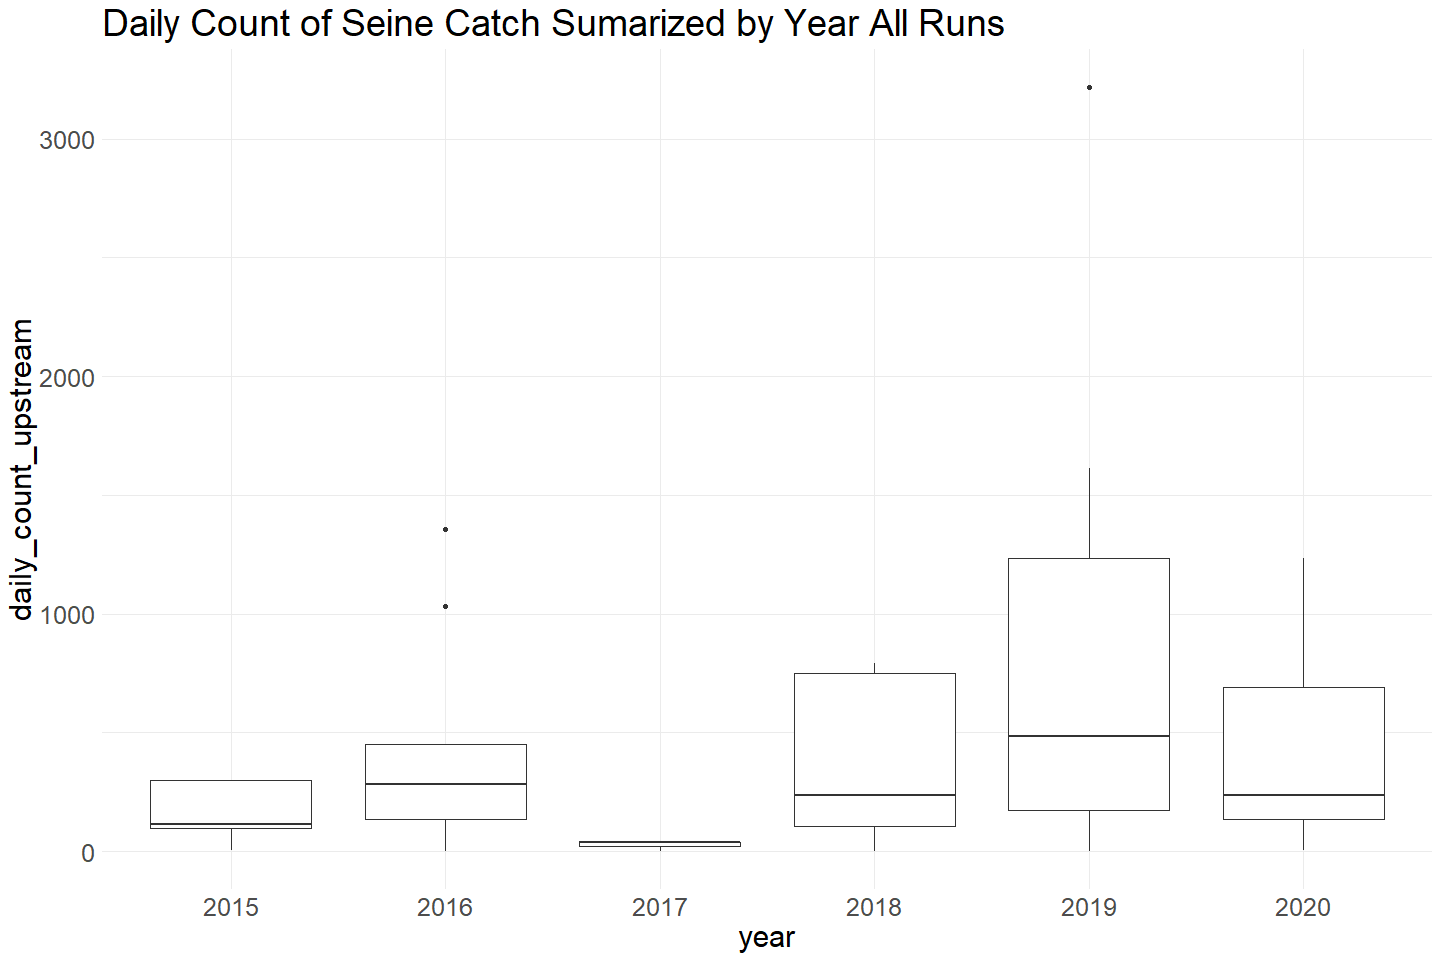
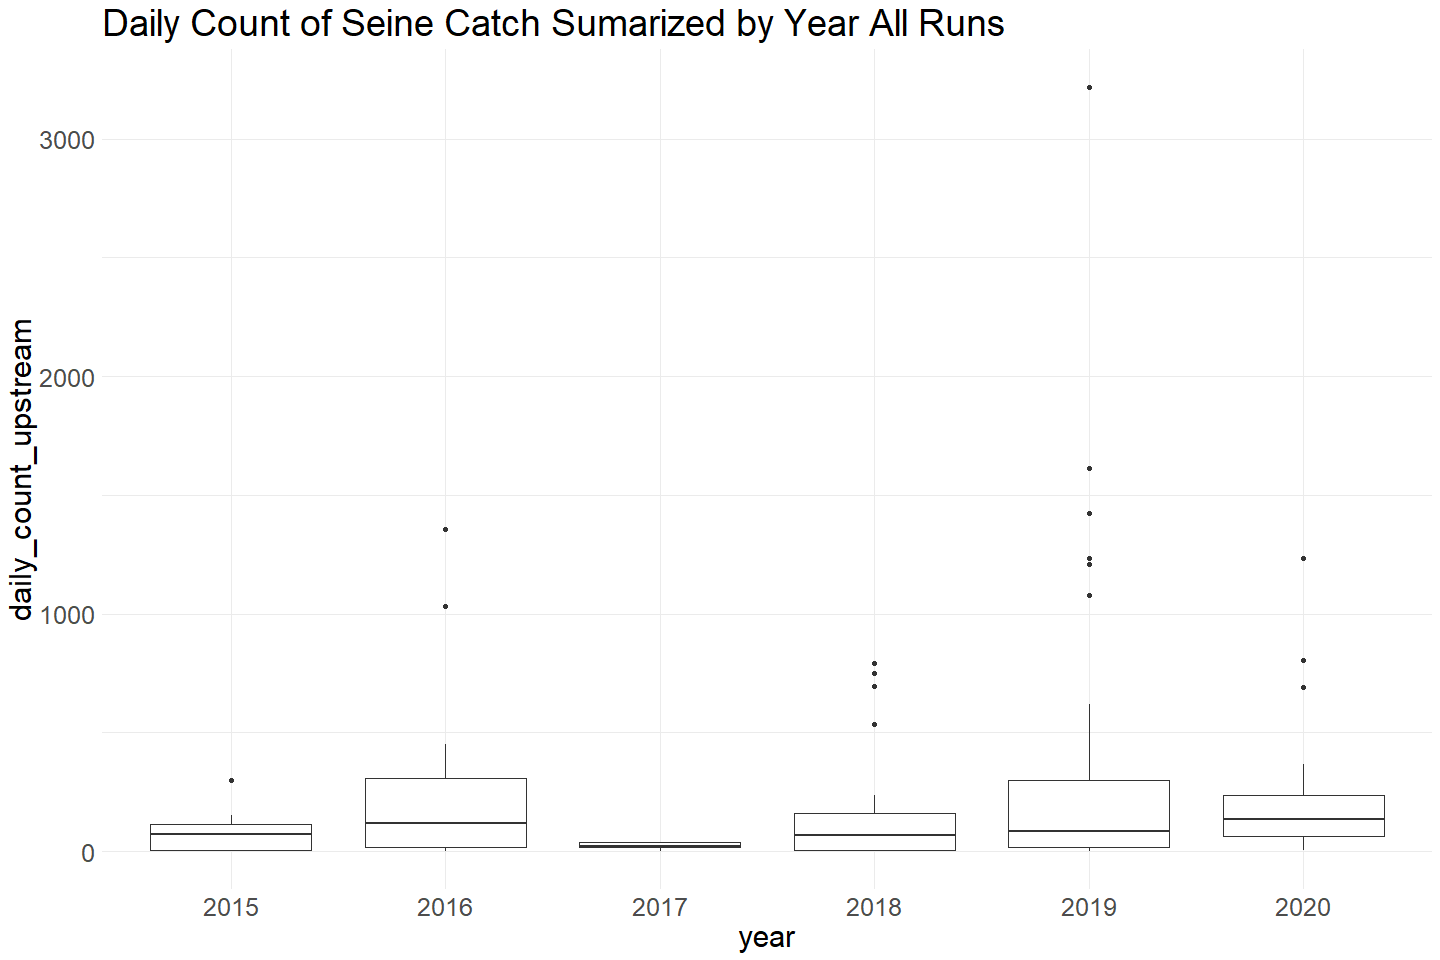
Fixes lat long and substrate for most recent seine data

diff --git a/scripts/juvenile-monitoring-seine-and-snorkel-data/feather-river/feather_seine_2015-2021.md b/scripts/juvenile-monitoring-seine-and-snorkel-data/feather-river/feather_seine_2015-2021.md
@@ -54,7 +54,16 @@ Read in data from google cloud, glimpse raw data:
 
 ``` r
 # read in data to clean 
-raw_seine_2015 <- read_xlsx("raw_seine_2015-2021.xlsx") %>% glimpse()
+raw_seine_2015 <- read_xlsx("raw_seine_2015-2021.xlsx", col_types = c("numeric", "text", "numeric", "numeric", "numeric",
+                                                                      "numeric", "numeric", "logical", "text", "text", 
+                                                                      "numeric", "date", "date", "numeric", "numeric", "numeric",
+                                                                      "text", "numeric", "numeric", "numeric", "numeric",
+                                                                      "numeric", "numeric", "numeric", "numeric", "numeric",
+                                                                      "numeric", "numeric", "numeric", "numeric", "numeric",
+                                                                      "numeric", "numeric", "numeric", "numeric",
+                                                                      "numeric","text", "text", "text", "text", "text", "text",
+                                                                      "text", "numeric", "numeric", "numeric", "numeric", "text",
+                                                                      "text", "numeric", "numeric", "text")) %>% glimpse()
 ```
 
     ## Rows: 19,403
@@ -63,12 +72,12 @@ raw_seine_2015 <- read_xlsx("raw_seine_2015-2021.xlsx") %>% glimpse()
     ## $ Species                  <chr> "CHNF", "CHNF", "CHNF", "CHNF", "CHNF", "CHNF~
     ## $ Count                    <dbl> 1, 1, 1, 1, 1, 1, 1, 1, 1, 1, 1, 1, 1, 1, 1, ~
     ## $ `Fork Length`            <dbl> 47, 58, 62, 50, 65, 60, 59, 60, 67, 59, 54, 8~
-    ## $ `Total Length`           <lgl> NA, NA, NA, NA, NA, NA, NA, NA, NA, NA, NA, N~
+    ## $ `Total Length`           <dbl> NA, NA, NA, NA, NA, NA, NA, NA, NA, NA, NA, N~
     ## $ `Salmonid Life Stage`    <dbl> 7, 7, 7, 7, 7, 7, 7, 7, 7, 7, 7, 7, 7, 7, 7, ~
     ## $ id                       <dbl> 6225, 6226, 6227, 6228, 6229, 6230, 6231, 623~
     ## $ Dead                     <lgl> FALSE, FALSE, FALSE, FALSE, FALSE, FALSE, FAL~
     ## $ `Weight (g)`             <chr> "1.1", "2", "2.3", "1.3", "2.9", "2.4", "2", ~
-    ## $ `Catch TBL_Comments`     <lgl> NA, NA, NA, NA, NA, NA, NA, NA, NA, NA, NA, N~
+    ## $ `Catch TBL_Comments`     <chr> NA, NA, NA, NA, NA, NA, NA, NA, NA, NA, NA, N~
     ## $ `Site ID`                <dbl> 59, 59, 59, 59, 59, 59, 59, 59, 59, 59, 59, 5~
     ## $ Date                     <dttm> 2015-05-19, 2015-05-19, 2015-05-19, 2015-05-~
     ## $ Time                     <dttm> 1899-12-31 10:30:00, 1899-12-31 10:30:00, 18~
@@ -76,35 +85,35 @@ raw_seine_2015 <- read_xlsx("raw_seine_2015-2021.xlsx") %>% glimpse()
     ## $ ConditionCode            <dbl> 4, 4, 4, 4, 4, 4, 4, 4, 4, 4, 4, 4, 4, 4, 4, ~
     ## $ Temperature              <dbl> NA, NA, NA, NA, NA, NA, NA, NA, NA, NA, NA, N~
     ## $ WeatherCode              <chr> "CLR", "CLR", "CLR", "CLR", "CLR", "CLR", "CL~
-    ## $ Flow                     <lgl> NA, NA, NA, NA, NA, NA, NA, NA, NA, NA, NA, N~
-    ## $ `EFBS Length`            <lgl> NA, NA, NA, NA, NA, NA, NA, NA, NA, NA, NA, N~
-    ## $ `EFBS Width`             <lgl> NA, NA, NA, NA, NA, NA, NA, NA, NA, NA, NA, N~
-    ## $ `EFBS Depth (Top)`       <lgl> NA, NA, NA, NA, NA, NA, NA, NA, NA, NA, NA, N~
-    ## $ `EFBS Depth (Bottom)`    <lgl> NA, NA, NA, NA, NA, NA, NA, NA, NA, NA, NA, N~
-    ## $ `EFBS Velocity (Top)`    <lgl> NA, NA, NA, NA, NA, NA, NA, NA, NA, NA, NA, N~
-    ## $ `EFBS Velocity (Bottom)` <lgl> NA, NA, NA, NA, NA, NA, NA, NA, NA, NA, NA, N~
+    ## $ Flow                     <dbl> NA, NA, NA, NA, NA, NA, NA, NA, NA, NA, NA, N~
+    ## $ `EFBS Length`            <dbl> NA, NA, NA, NA, NA, NA, NA, NA, NA, NA, NA, N~
+    ## $ `EFBS Width`             <dbl> NA, NA, NA, NA, NA, NA, NA, NA, NA, NA, NA, N~
+    ## $ `EFBS Depth (Top)`       <dbl> NA, NA, NA, NA, NA, NA, NA, NA, NA, NA, NA, N~
+    ## $ `EFBS Depth (Bottom)`    <dbl> NA, NA, NA, NA, NA, NA, NA, NA, NA, NA, NA, N~
+    ## $ `EFBS Velocity (Top)`    <dbl> NA, NA, NA, NA, NA, NA, NA, NA, NA, NA, NA, N~
+    ## $ `EFBS Velocity (Bottom)` <dbl> NA, NA, NA, NA, NA, NA, NA, NA, NA, NA, NA, N~
     ## $ `BS Start Length`        <dbl> NA, NA, NA, NA, NA, NA, NA, NA, NA, NA, NA, N~
-    ## $ `BS Close Width`         <lgl> NA, NA, NA, NA, NA, NA, NA, NA, NA, NA, NA, N~
+    ## $ `BS Close Width`         <dbl> NA, NA, NA, NA, NA, NA, NA, NA, NA, NA, NA, N~
     ## $ `BS Distance Out`        <dbl> NA, NA, NA, NA, NA, NA, NA, NA, NA, NA, NA, N~
     ## $ `BS Depth (1/2)`         <dbl> NA, NA, NA, NA, NA, NA, NA, NA, NA, NA, NA, N~
-    ## $ `BS Depth (Full)`        <lgl> NA, NA, NA, NA, NA, NA, NA, NA, NA, NA, NA, N~
-    ## $ `BS Velocity (1/2)`      <lgl> NA, NA, NA, NA, NA, NA, NA, NA, NA, NA, NA, N~
-    ## $ `BS Velocity (Full)`     <lgl> NA, NA, NA, NA, NA, NA, NA, NA, NA, NA, NA, N~
+    ## $ `BS Depth (Full)`        <dbl> NA, NA, NA, NA, NA, NA, NA, NA, NA, NA, NA, N~
+    ## $ `BS Velocity (1/2)`      <dbl> NA, NA, NA, NA, NA, NA, NA, NA, NA, NA, NA, N~
+    ## $ `BS Velocity (Full)`     <dbl> NA, NA, NA, NA, NA, NA, NA, NA, NA, NA, NA, N~
     ## $ `Substrate 1`            <dbl> 1, 1, 1, 1, 1, 1, 1, 1, 1, 1, 1, 1, 1, 1, 1, ~
     ## $ `Substrate 2`            <dbl> 2, 2, 2, 2, 2, 2, 2, 2, 2, 2, 2, 2, 2, 2, 2, ~
     ## $ `Substrate 3`            <dbl> 3, 3, 3, 3, 3, 3, 3, 3, 3, 3, 3, 3, 3, 3, 3, ~
-    ## $ `Substrate 4`            <lgl> NA, NA, NA, NA, NA, NA, NA, NA, NA, NA, NA, N~
-    ## $ `Substrate 5`            <lgl> NA, NA, NA, NA, NA, NA, NA, NA, NA, NA, NA, N~
+    ## $ `Substrate 4`            <dbl> NA, NA, NA, NA, NA, NA, NA, NA, NA, NA, NA, N~
+    ## $ `Substrate 5`            <dbl> NA, NA, NA, NA, NA, NA, NA, NA, NA, NA, NA, N~
     ## $ `Cover 1`                <chr> "B", "B", "B", "B", "B", "B", "B", "B", "B", ~
     ## $ `Cover 2`                <chr> "D", "D", "D", "D", "D", "D", "D", "D", "D", ~
     ## $ `Cover 3`                <chr> "C", "C", "C", "C", "C", "C", "C", "C", "C", ~
     ## $ `Cover 4`                <chr> "E", "E", "E", "E", "E", "E", "E", "E", "E", ~
     ## $ `Cover 5`                <chr> "F", "F", "F", "F", "F", "F", "F", "F", "F", ~
-    ## $ `Cover 6`                <lgl> NA, NA, NA, NA, NA, NA, NA, NA, NA, NA, NA, N~
+    ## $ `Cover 6`                <chr> NA, NA, NA, NA, NA, NA, NA, NA, NA, NA, NA, N~
     ## $ RPGRu                    <chr> "GRRU", "GRRU", "GRRU", "GRRU", "GRRU", "GRRU~
-    ## $ GearHeight               <lgl> NA, NA, NA, NA, NA, NA, NA, NA, NA, NA, NA, N~
-    ## $ `Dissolved Oxygen`       <lgl> NA, NA, NA, NA, NA, NA, NA, NA, NA, NA, NA, N~
-    ## $ EC                       <lgl> NA, NA, NA, NA, NA, NA, NA, NA, NA, NA, NA, N~
+    ## $ GearHeight               <dbl> NA, NA, NA, NA, NA, NA, NA, NA, NA, NA, NA, N~
+    ## $ `Dissolved Oxygen`       <dbl> NA, NA, NA, NA, NA, NA, NA, NA, NA, NA, NA, N~
+    ## $ EC                       <dbl> NA, NA, NA, NA, NA, NA, NA, NA, NA, NA, NA, N~
     ## $ OBJECTID                 <dbl> 59, 59, 59, 59, 59, 59, 59, 59, 59, 59, 59, 5~
     ## $ site_name                <chr> "Hatchery Ditch", "Hatchery Ditch", "Hatchery~
     ## $ gear_type                <chr> "SEIN", "SEIN", "SEIN", "SEIN", "SEIN", "SEIN~
@@ -170,15 +179,15 @@ cleaner_seine_data <- raw_seine_2015 %>%
     ## $ condition            <chr> "4", "4", "4", "4", "4", "4", "4", "4", "4", "4",~
     ## $ temperature          <dbl> NA, NA, NA, NA, NA, NA, NA, NA, NA, NA, NA, NA, N~
     ## $ weather              <chr> "CLR", "CLR", "CLR", "CLR", "CLR", "CLR", "CLR", ~
-    ## $ flow                 <lgl> NA, NA, NA, NA, NA, NA, NA, NA, NA, NA, NA, NA, N~
-    ## $ efbs_length          <lgl> NA, NA, NA, NA, NA, NA, NA, NA, NA, NA, NA, NA, N~
-    ## $ efbs_width           <lgl> NA, NA, NA, NA, NA, NA, NA, NA, NA, NA, NA, NA, N~
-    ## $ efbs_depth_top       <lgl> NA, NA, NA, NA, NA, NA, NA, NA, NA, NA, NA, NA, N~
-    ## $ efbs_depth_bottom    <lgl> NA, NA, NA, NA, NA, NA, NA, NA, NA, NA, NA, NA, N~
-    ## $ efbs_velocity_top    <lgl> NA, NA, NA, NA, NA, NA, NA, NA, NA, NA, NA, NA, N~
-    ## $ efbs_velocity_bottom <lgl> NA, NA, NA, NA, NA, NA, NA, NA, NA, NA, NA, NA, N~
+    ## $ flow                 <dbl> NA, NA, NA, NA, NA, NA, NA, NA, NA, NA, NA, NA, N~
+    ## $ efbs_length          <dbl> NA, NA, NA, NA, NA, NA, NA, NA, NA, NA, NA, NA, N~
+    ## $ efbs_width           <dbl> NA, NA, NA, NA, NA, NA, NA, NA, NA, NA, NA, NA, N~
+    ## $ efbs_depth_top       <dbl> NA, NA, NA, NA, NA, NA, NA, NA, NA, NA, NA, NA, N~
+    ## $ efbs_depth_bottom    <dbl> NA, NA, NA, NA, NA, NA, NA, NA, NA, NA, NA, NA, N~
+    ## $ efbs_velocity_top    <dbl> NA, NA, NA, NA, NA, NA, NA, NA, NA, NA, NA, NA, N~
+    ## $ efbs_velocity_bottom <dbl> NA, NA, NA, NA, NA, NA, NA, NA, NA, NA, NA, NA, N~
     ## $ bs_start_length      <dbl> NA, NA, NA, NA, NA, NA, NA, NA, NA, NA, NA, NA, N~
-    ## $ bs_close_width       <lgl> NA, NA, NA, NA, NA, NA, NA, NA, NA, NA, NA, NA, N~
+    ## $ bs_close_width       <dbl> NA, NA, NA, NA, NA, NA, NA, NA, NA, NA, NA, NA, N~
     ## $ bs_distance_out      <dbl> NA, NA, NA, NA, NA, NA, NA, NA, NA, NA, NA, NA, N~
     ## $ bs_depth_half        <dbl> NA, NA, NA, NA, NA, NA, NA, NA, NA, NA, NA, NA, N~
     ## $ substrate_1          <chr> "1", "1", "1", "1", "1", "1", "1", "1", "1", "1",~
@@ -191,7 +200,7 @@ cleaner_seine_data <- raw_seine_2015 %>%
     ## $ cover_3              <chr> "C", "C", "C", "C", "C", "C", "C", "C", "C", "C",~
     ## $ cover_4              <chr> "E", "E", "E", "E", "E", "E", "E", "E", "E", "E",~
     ## $ cover_5              <chr> "F", "F", "F", "F", "F", "F", "F", "F", "F", "F",~
-    ## $ cover_6              <lgl> NA, NA, NA, NA, NA, NA, NA, NA, NA, NA, NA, NA, N~
+    ## $ cover_6              <chr> NA, NA, NA, NA, NA, NA, NA, NA, NA, NA, NA, NA, N~
     ## $ stream_features      <chr> "GRRU", "GRRU", "GRRU", "GRRU", "GRRU", "GRRU", "~
     ## $ site_name            <chr> "Hatchery Ditch", "Hatchery Ditch", "Hatchery Dit~
     ## $ utm_easting          <dbl> -121.5588, -121.5588, -121.5588, -121.5588, -121.~
@@ -207,9 +216,12 @@ cleaner_seine_data <- raw_seine_2015 %>%
 cleaner_seine_data %>% select_if(is.numeric) %>% colnames()
 ```
 
-    ##  [1] "count"           "fork_length"     "weight_g"        "gear"           
-    ##  [5] "temperature"     "bs_start_length" "bs_distance_out" "bs_depth_half"  
-    ##  [9] "utm_easting"     "utm_northing"
+    ##  [1] "count"                "fork_length"          "weight_g"            
+    ##  [4] "gear"                 "temperature"          "flow"                
+    ##  [7] "efbs_length"          "efbs_width"           "efbs_depth_top"      
+    ## [10] "efbs_depth_bottom"    "efbs_velocity_top"    "efbs_velocity_bottom"
+    ## [13] "bs_start_length"      "bs_close_width"       "bs_distance_out"     
+    ## [16] "bs_depth_half"        "utm_easting"          "utm_northing"
 
 ### Variable: `count`
 
@@ -234,10 +246,10 @@ cleaner_seine_data %>%
 ![](feather_seine_2015-2021_files/figure-gfm/unnamed-chunk-5-1.png)<!-- -->
 
 ``` r
-cleaner_seine_data %>% group_by(date) %>%
-  mutate(daily_count_upstream = sum(count)) %>%
+cleaner_seine_data %>% 
+  group_by(date) %>%
+  summarise(daily_count_upstream = sum(count)) %>%
   mutate(year = as.factor(year(date))) %>% 
-  ungroup() %>%
   ggplot(aes(x = year, y = daily_count_upstream)) + 
   geom_boxplot() + 
   theme_minimal() +
@@ -530,17 +542,53 @@ summary(cleaner_seine_data$bs_depth_half)
 
 ### Variables: `utm_northing`, `utm_easting`
 
-These are the location columns. TODO (fix the rest)
+These are the location columns. It looks like most values area actually
+latitude and longitude but there are a few crazy values in there that
+are out of the realm of possibilities for the feather river. I changed
+the names to lat and long and then updated then changed unreasonable
+values to NA.
 
 ``` r
-# Check that they are in consistent format
-# Map
+summary(cleaner_seine_data$utm_easting)
 ```
+
+    ##     Min.  1st Qu.   Median     Mean  3rd Qu.     Max.     NA's 
+    ##  -1221.6   -121.6   -121.6  60671.7   -121.6 620138.0      823
+
+``` r
+summary(cleaner_seine_data$utm_northing)
+```
+
+    ##    Min. 1st Qu.  Median    Mean 3rd Qu.    Max.    NA's 
+    ##    -122      39      39  428829      40 4369037     823
+
+``` r
+cleaner_seine_data <- rename(cleaner_seine_data, longitude = utm_easting)
+cleaner_seine_data$longitude <- ifelse(cleaner_seine_data$longitude < -130 | 
+                                         cleaner_seine_data$longitude > -110, NA, 
+                                       cleaner_seine_data$longitude)
+summary(cleaner_seine_data$longitude)
+```
+
+    ##    Min. 1st Qu.  Median    Mean 3rd Qu.    Max.    NA's 
+    ##  -121.6  -121.6  -121.6  -121.6  -121.6  -121.6    2957
+
+``` r
+cleaner_seine_data <- rename(cleaner_seine_data, latitude = utm_northing)
+cleaner_seine_data$latitude <- ifelse(cleaner_seine_data$latitude < 30 |
+                                        cleaner_seine_data$latitude > 50, NA, 
+                                      cleaner_seine_data$latitude)
+summary(cleaner_seine_data$latitude)
+```
+
+    ##    Min. 1st Qu.  Median    Mean 3rd Qu.    Max.    NA's 
+    ##   39.01   39.11   39.35   39.31   39.48   39.52    2418
 
 **NA and Unknown Values**
 
--   8.1 % of values in the `utm_easting` column are NA.
--   8.1 % of values in the `utm_northing` column are NA.
+-   29.3 % of values in the `longitude` column \# Check that they are in
+    consistent format \# Mapare NA.
+-   23.9 % of values in the `latitude` column are NA.
 
 ## Explore Categorical variables:
 
@@ -553,8 +601,8 @@ cleaner_seine_data %>% select_if(is.character) %>% colnames()
     ##  [7] "substrate_2"         "substrate_3"         "substrate_4"        
     ## [10] "substrate_5"         "cover_1"             "cover_2"            
     ## [13] "cover_3"             "cover_4"             "cover_5"            
-    ## [16] "stream_features"     "site_name"           "location_lu_channel"
-    ## [19] "run"
+    ## [16] "cover_6"             "stream_features"     "site_name"          
+    ## [19] "location_lu_channel" "run"
 
 ### Variable: `sample_id`, `id`
 
@@ -724,7 +772,8 @@ table(cleaner_seine_data$weather)
 | 4             | Boulder (&gt;300mm) (&gt;12in.)             |
 | 5             | Pavement (Boat Ramp)                        |
 
-TODO fix substrate stuff
+Substrate lookup list for feather seine can be found
+“data/feather\_seine\_substrate.rds”
 
 ``` r
 table(cleaner_seine_data$substrate_1)
@@ -755,18 +804,28 @@ table(cleaner_seine_data$substrate_4)
 ```
 
     ## 
-    ## TRUE 
-    ##  290
+    ##   4 
+    ## 290
 
 ``` r
-table(cleaner_seine_data$substrate_5)
+table(cleaner_seine_data$substrate_5) #all na values
 ```
 
     ## < table of extent 0 >
 
-Fix inconsistencies with spelling, capitalization, and abbreviations.
+**Create lookup rda for substrate encoding:**
 
-**Create lookup rda for \[variable\] encoding:**
+``` r
+feather_seine_substrate <- 1:5
+names(feather_seine_substrate) <- c(
+  "Fine - small gravel (0-50mm) (0-2in.)", 
+  "Small - medium gravel (50-150mm) (2-6in.)", 
+  "Medium - large cobble (150-300mm) (6-12in.)",
+  "Boulder (>300mm) (>12in.)",
+  "Pavement (Boat Ramp)")
+
+#write_rds(feather_seine_substrate, "../../../data/feather_seine_substrate.rds")
+```
 
 **NA and Unknown Values**
 
@@ -779,8 +838,6 @@ No NA values:
 -   100 % of values in the `substrate_5` column are NA.
 
 ### Variable: `cover_1`, `cover_2`, `cover_3`, `cover_4`, `cover_5`
-
-TODO fix cover stuff
 
 ``` r
 table(cleaner_seine_data$cover_1)
@@ -1033,6 +1090,7 @@ format_site_name <- function(string) {
     str_replace_all("S.C.", "SC") %>%
     str_replace_all("'", "") %>%
     str_replace_all("G-95", "G95") %>% 
+    str_replace_all("Isl", "Island") %>%
     str_replace_all("[^[:alnum:]]", " ") %>% 
     trimws() %>% 
     stringr::str_squish() %>%
@@ -1088,7 +1146,7 @@ table(cleaner_seine_data$site_name)
     ##                                      16                                     113 
     ##                            Gridley Side                          Hatchery Ditch 
     ##                                     165                                     352 
-    ##     Hatchery Fence Island Above Bedrock                 Herringer Downstream Rl 
+    ##  Hatchery Fence Islandand Above Bedrock                 Herringer Downstream Rl 
     ##                                      11                                     133 
     ##                       Herringer Main Rl           Herringer Quarter Mi Below Rr 
     ##                                     361                                       4 
@@ -1098,7 +1156,7 @@ table(cleaner_seine_data$site_name)
     ##                                       5                                     251 
     ##                 Hour Main Rl Downstream                 Hour Main Rr Downstream 
     ##                                      88                                       3 
-    ##           Hour Side Channel Rl Upstream        Island Upstream Yuba City Launch 
+    ##           Hour Side Channel Rl Upstream     Islandand Upstream Yuba City Launch 
     ##                                     100                                      12 
     ##                          Jeffs Basshole                                Junkyard 
     ##                                       7                                       1 
@@ -1136,7 +1194,7 @@ table(cleaner_seine_data$site_name)
     ##                                     127                                     148 
     ##                           Steep Main Rr                      Steep Side Channel 
     ##                                      83                                      52 
-    ##          Sunset Pumps Downstream Island                             Swampy Bend 
+    ##       Sunset Pumps Downstream Islandand                             Swampy Bend 
     ##                                      13                                      52 
     ##                       Trailer Park Main                         Upstream G95 Rl 
     ##                                       4                                       4 
@@ -1204,13 +1262,67 @@ table(cleaner_seine_data$run)
 
 ## Summary of identified issues
 
--   TODO need to figure out what is going on with the substrate and
-    cover columns.
--   There are not a ton of SR catches, mainly FR.
+-   There are not a lot of SR catches, mainly FR. Data may not be that
+    useful.
+-   Figure out the best way to clean up the substrate and cover columns
 
 ## Save cleaned data back to google cloud
 
 ``` r
-# Write to google cloud 
-# Name file [watershed]_[data type].csv
+feather_seine_2015_2021 <- cleaner_seine_data %>% glimpse()
+```
+
+    ## Rows: 10,100
+    ## Columns: 42
+    ## $ sample_id            <chr> "372", "372", "372", "372", "372", "372", "372", ~
+    ## $ count                <dbl> 1, 1, 1, 1, 1, 1, 1, 1, 1, 1, 1, 1, 1, 1, 1, 1, 1~
+    ## $ fork_length          <dbl> 47, 58, 62, 50, 65, 60, 59, 60, 67, 59, 54, 82, 6~
+    ## $ lifestage            <chr> NA, NA, NA, NA, NA, NA, NA, NA, NA, NA, NA, NA, N~
+    ## $ id                   <chr> "6225", "6226", "6227", "6228", "6229", "6230", "~
+    ## $ dead                 <lgl> FALSE, FALSE, FALSE, FALSE, FALSE, FALSE, FALSE, ~
+    ## $ weight_g             <dbl> 1.1, 2.0, 2.3, 1.3, 2.9, 2.4, 2.0, 2.5, 3.4, 2.3,~
+    ## $ date                 <date> 2015-05-19, 2015-05-19, 2015-05-19, 2015-05-19, ~
+    ## $ time                 <time> 10:30:00, 10:30:00, 10:30:00, 10:30:00, 10:30:00~
+    ## $ gear                 <chr> "SEIN50", "SEIN50", "SEIN50", "SEIN50", "SEIN50",~
+    ## $ condition            <chr> NA, NA, NA, NA, NA, NA, NA, NA, NA, NA, NA, NA, N~
+    ## $ temperature          <dbl> NA, NA, NA, NA, NA, NA, NA, NA, NA, NA, NA, NA, N~
+    ## $ weather              <chr> "sunny", "sunny", "sunny", "sunny", "sunny", "sun~
+    ## $ flow                 <dbl> NA, NA, NA, NA, NA, NA, NA, NA, NA, NA, NA, NA, N~
+    ## $ efbs_length          <dbl> NA, NA, NA, NA, NA, NA, NA, NA, NA, NA, NA, NA, N~
+    ## $ efbs_width           <dbl> NA, NA, NA, NA, NA, NA, NA, NA, NA, NA, NA, NA, N~
+    ## $ efbs_depth_top       <dbl> NA, NA, NA, NA, NA, NA, NA, NA, NA, NA, NA, NA, N~
+    ## $ efbs_depth_bottom    <dbl> NA, NA, NA, NA, NA, NA, NA, NA, NA, NA, NA, NA, N~
+    ## $ efbs_velocity_top    <dbl> NA, NA, NA, NA, NA, NA, NA, NA, NA, NA, NA, NA, N~
+    ## $ efbs_velocity_bottom <dbl> NA, NA, NA, NA, NA, NA, NA, NA, NA, NA, NA, NA, N~
+    ## $ bs_start_length      <dbl> NA, NA, NA, NA, NA, NA, NA, NA, NA, NA, NA, NA, N~
+    ## $ bs_close_width       <dbl> NA, NA, NA, NA, NA, NA, NA, NA, NA, NA, NA, NA, N~
+    ## $ bs_distance_out      <dbl> NA, NA, NA, NA, NA, NA, NA, NA, NA, NA, NA, NA, N~
+    ## $ bs_depth_half        <dbl> NA, NA, NA, NA, NA, NA, NA, NA, NA, NA, NA, NA, N~
+    ## $ substrate_1          <chr> "1", "1", "1", "1", "1", "1", "1", "1", "1", "1",~
+    ## $ substrate_2          <chr> "2", "2", "2", "2", "2", "2", "2", "2", "2", "2",~
+    ## $ substrate_3          <chr> "3", "3", "3", "3", "3", "3", "3", "3", "3", "3",~
+    ## $ substrate_4          <chr> NA, NA, NA, NA, NA, NA, NA, NA, NA, NA, NA, NA, N~
+    ## $ substrate_5          <chr> NA, NA, NA, NA, NA, NA, NA, NA, NA, NA, NA, NA, N~
+    ## $ cover_1              <chr> "B", "B", "B", "B", "B", "B", "B", "B", "B", "B",~
+    ## $ cover_2              <chr> "D", "D", "D", "D", "D", "D", "D", "D", "D", "D",~
+    ## $ cover_3              <chr> "C", "C", "C", "C", "C", "C", "C", "C", "C", "C",~
+    ## $ cover_4              <chr> "E", "E", "E", "E", "E", "E", "E", "E", "E", "E",~
+    ## $ cover_5              <chr> "F", "F", "F", "F", "F", "F", "F", "F", "F", "F",~
+    ## $ cover_6              <chr> NA, NA, NA, NA, NA, NA, NA, NA, NA, NA, NA, NA, N~
+    ## $ stream_features      <chr> "GRRU", "GRRU", "GRRU", "GRRU", "GRRU", "GRRU", "~
+    ## $ site_name            <chr> "Hatchery Ditch", "Hatchery Ditch", "Hatchery Dit~
+    ## $ longitude            <dbl> -121.5588, -121.5588, -121.5588, -121.5588, -121.~
+    ## $ latitude             <dbl> 39.51619, 39.51619, 39.51619, 39.51619, 39.51619,~
+    ## $ location_lu_channel  <chr> "LFC", "LFC", "LFC", "LFC", "LFC", "LFC", "LFC", ~
+    ## $ run                  <chr> "fall", "fall", "fall", "fall", "fall", "fall", "~
+    ## $ tagged               <lgl> FALSE, FALSE, FALSE, FALSE, FALSE, FALSE, FALSE, ~
+
+``` r
+f <- function(input, output) write_csv(input, file = output)
+
+gcs_list_objects()
+gcs_upload(feather_seine_2015_2021,
+           object_function = f,
+           type = "csv",
+           name = " juvenile-rearing-monitoring/seine-and-snorkel-data/feather-river/data/feather_seine_2015_2021.csv")
 ```
